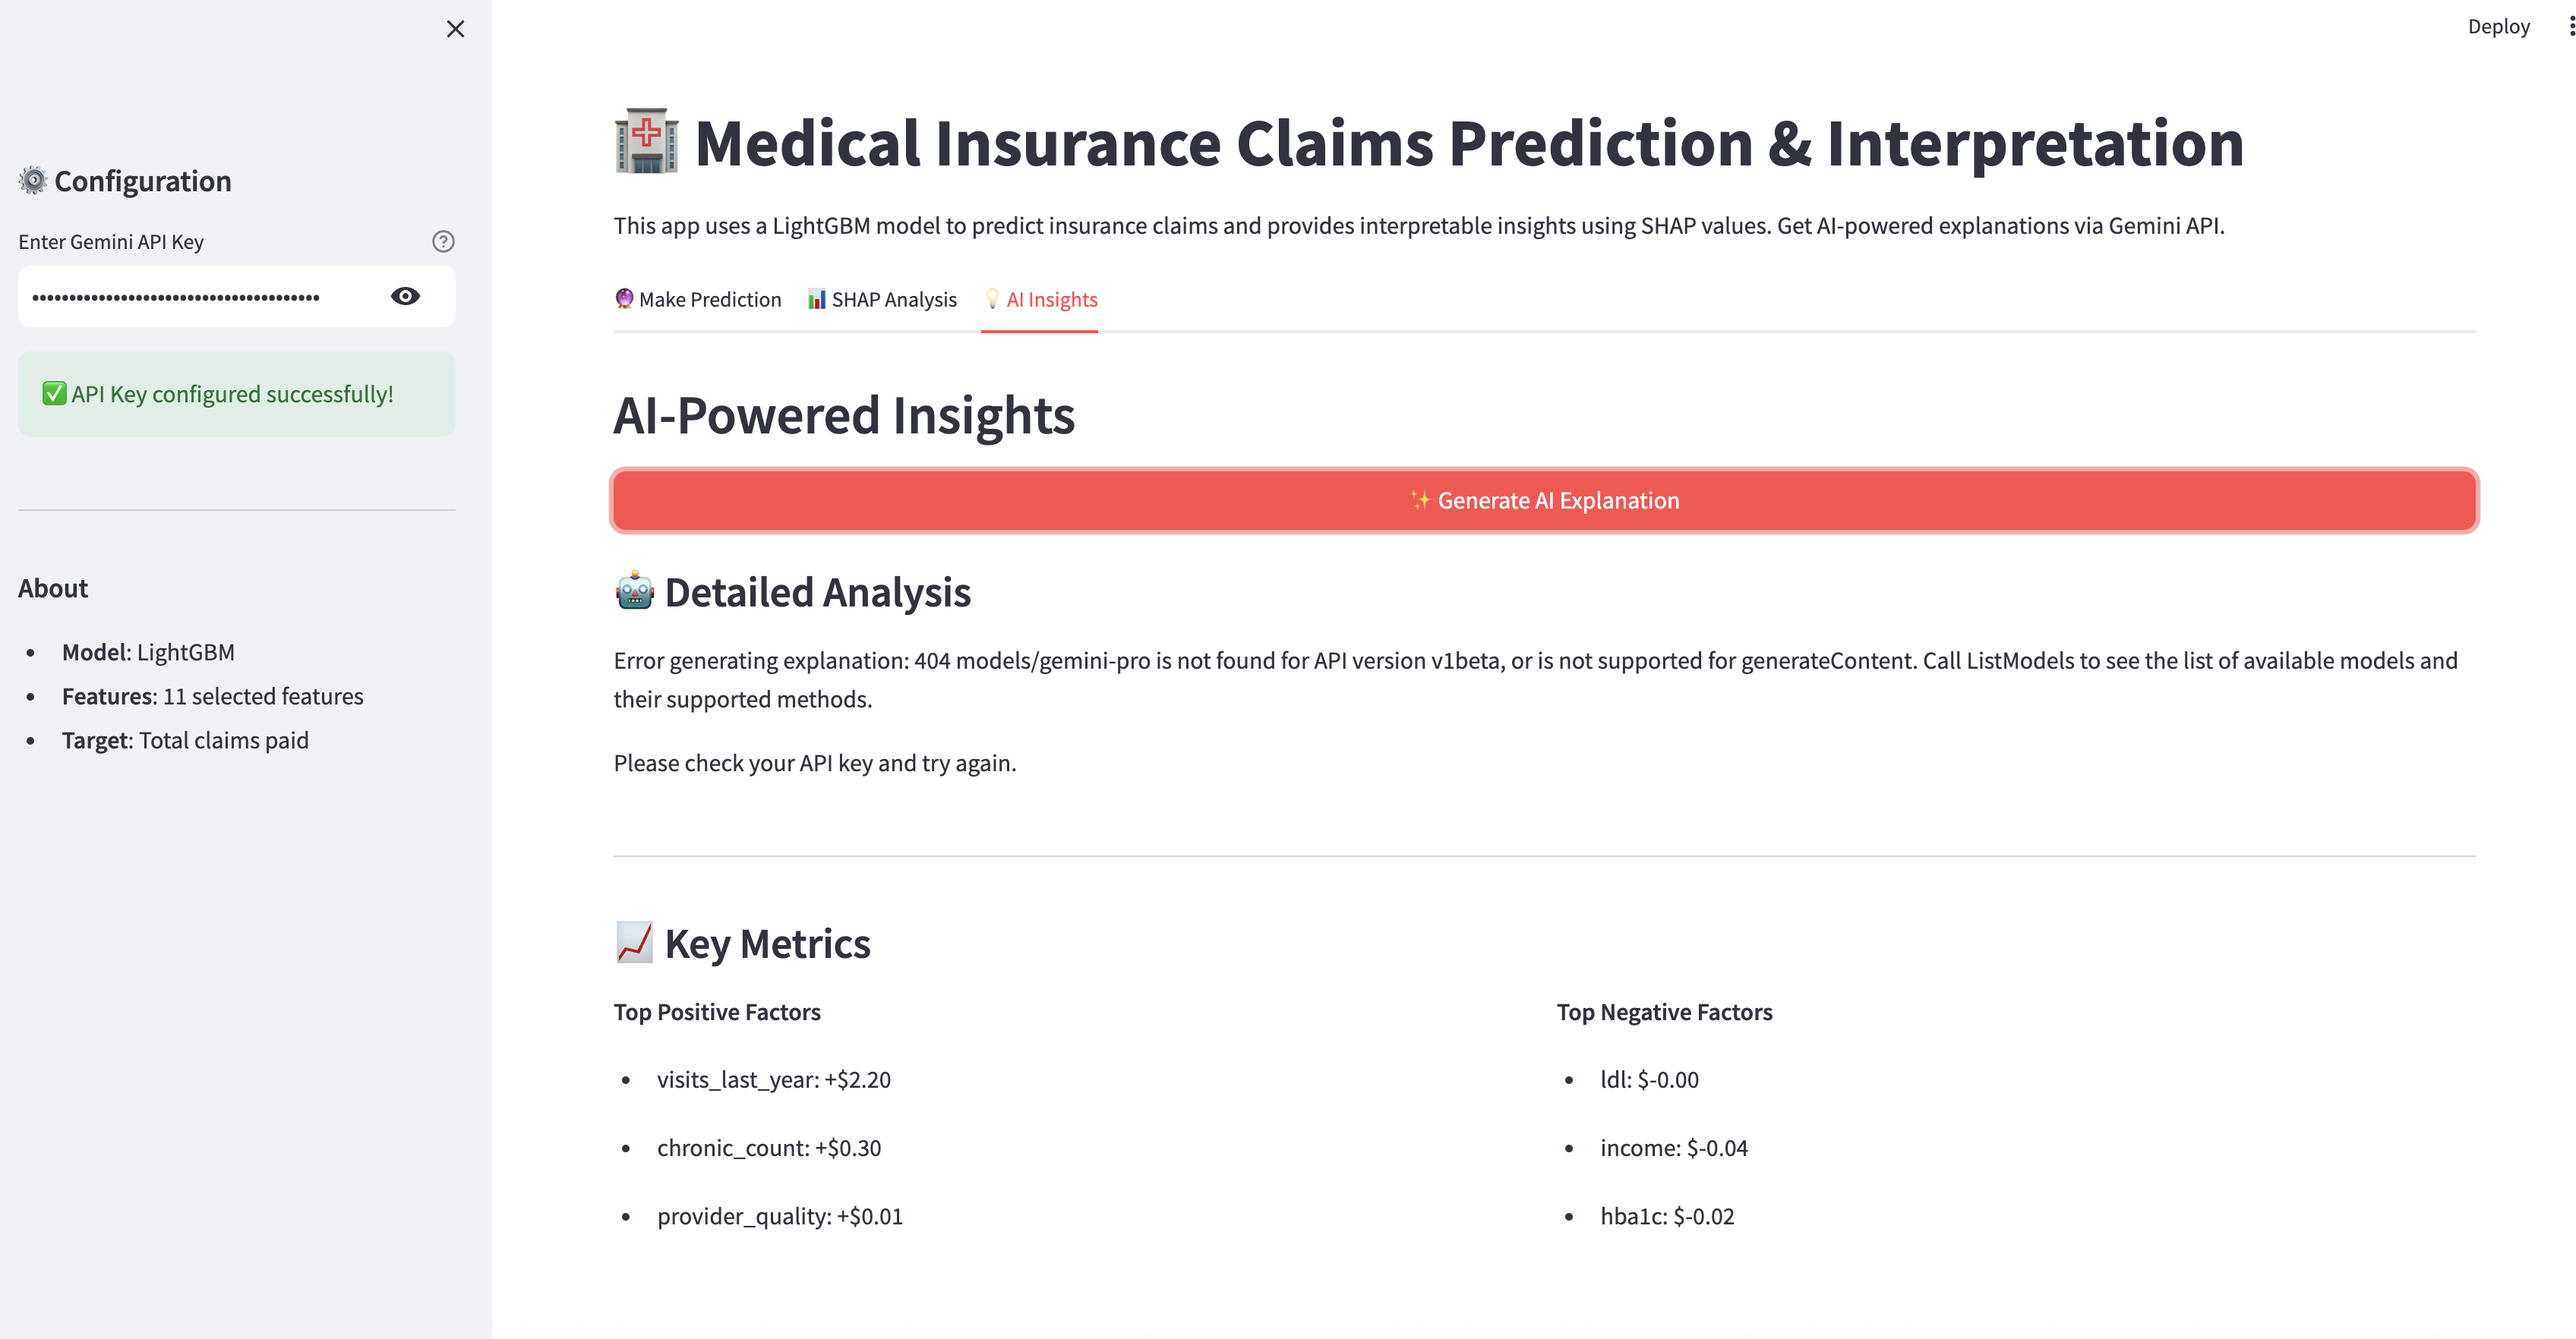
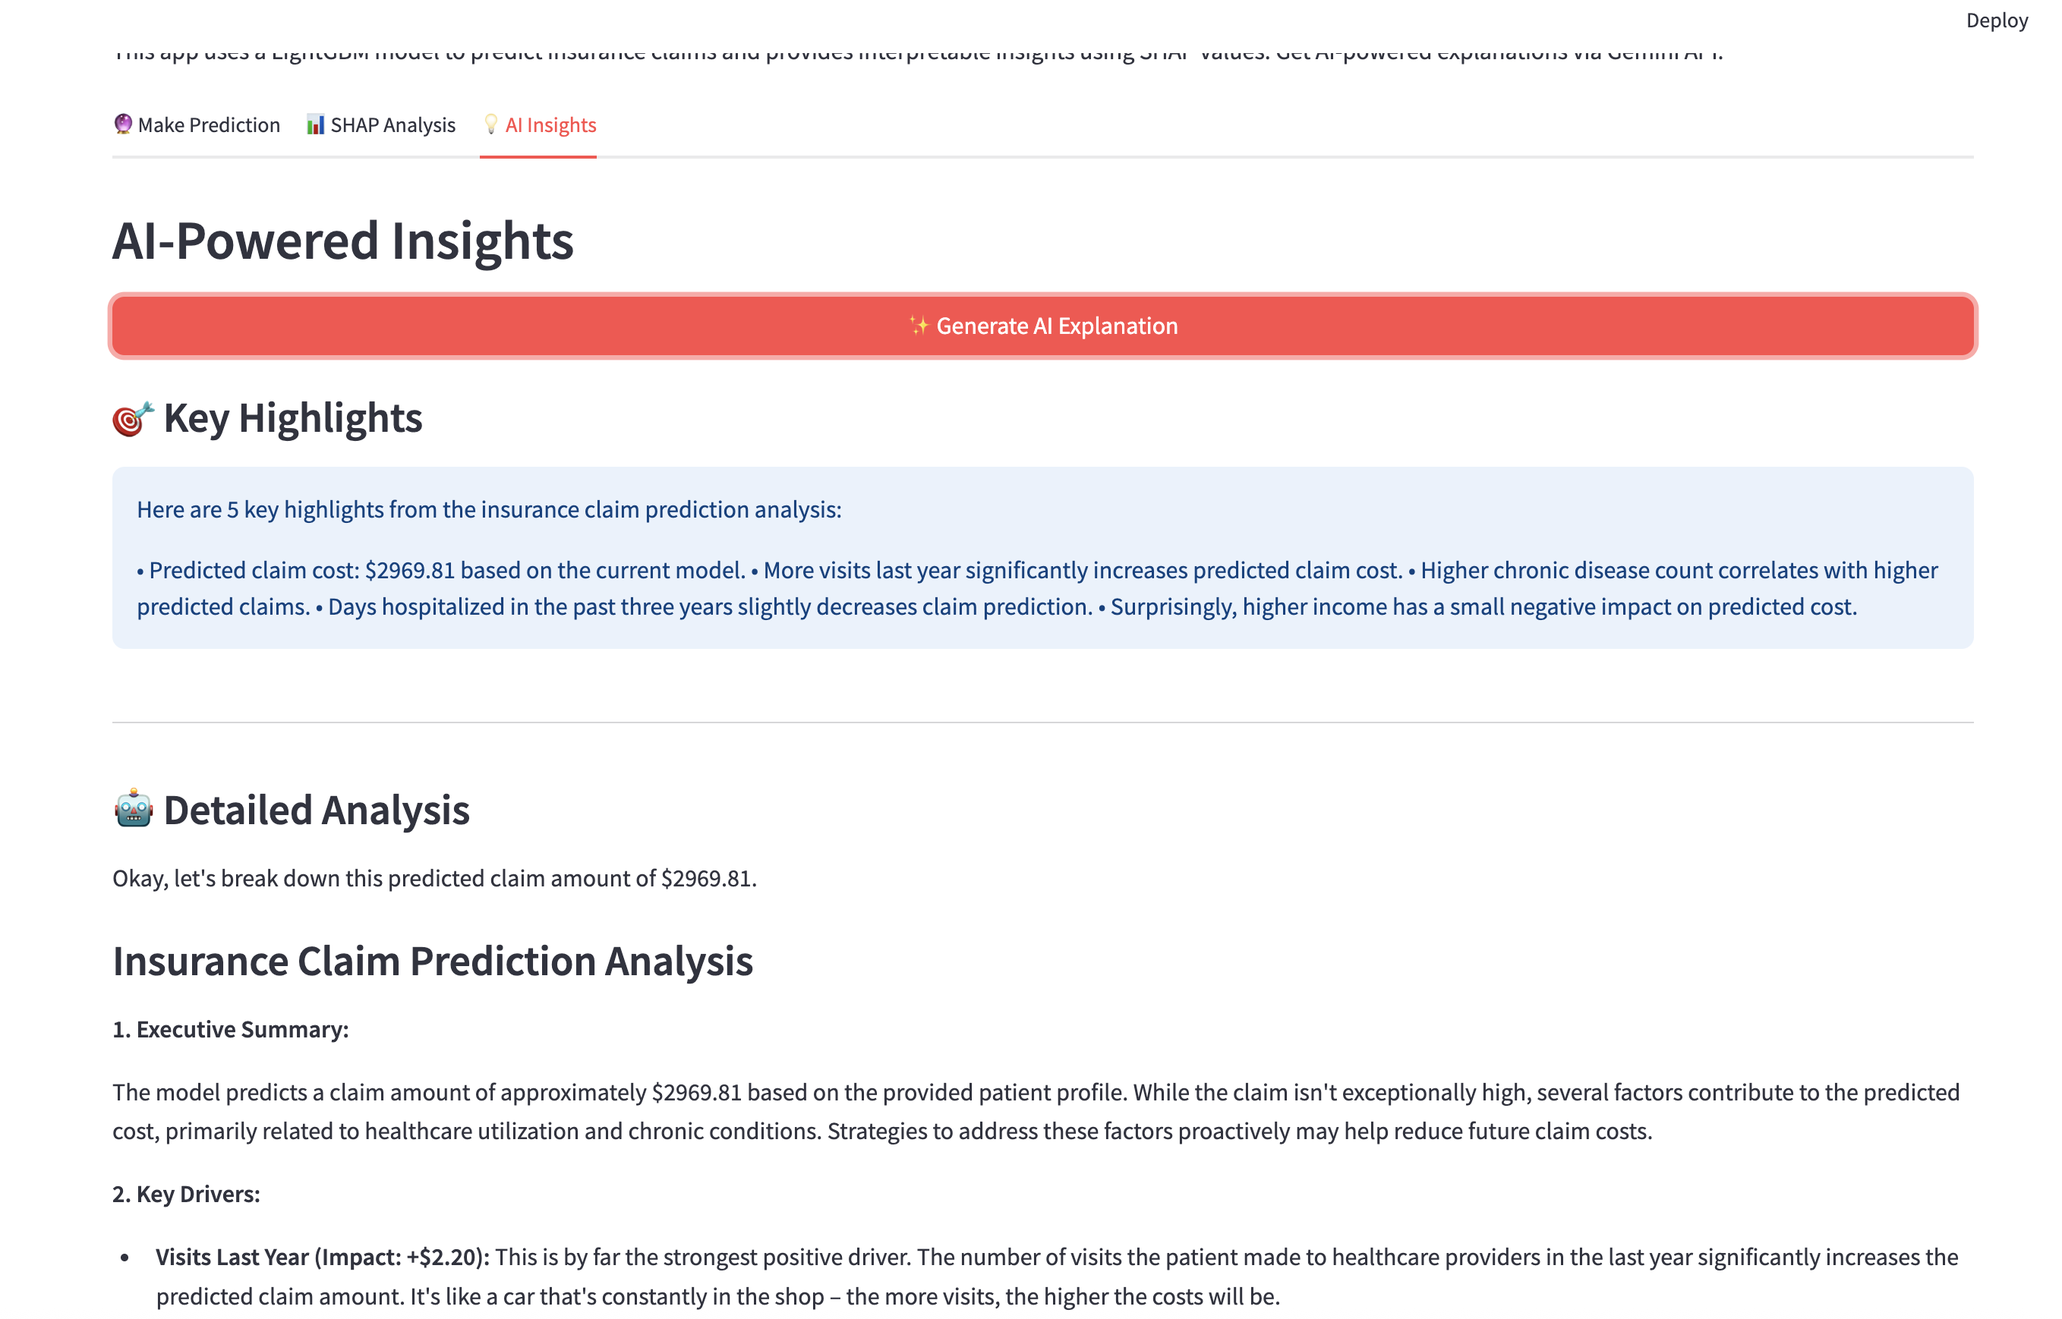
Switch to Google GenAI SDK: migrate to from google import genai with Client, use gemini-2.0-flash-exp; update requirements to google-genai; refresh screenshots and notebook.

diff --git a/app.py b/app.py
@@ -4,7 +4,7 @@ import numpy as np
 import pickle
 import shap
 import matplotlib.pyplot as plt
-import google.generativeai as genai
+from google import genai
 from sklearn.preprocessing import LabelEncoder, StandardScaler
 import os
 
@@ -106,9 +106,8 @@ def get_gemini_explanation(feature_impacts, prediction, api_key, sample_data):
         return None, "Please configure your Gemini API key in the sidebar to get AI-powered explanations."
     
     try:
-        # Configure API with explicit v1 endpoint
-        genai.configure(api_key=api_key)
-        model = genai.GenerativeModel('gemini-1.5-flash-latest')
+        # Use new Google GenAI SDK
+        client = genai.Client(api_key=api_key)
         
         # Create prompt with feature impacts and sample data
         prompt = f"""
@@ -138,7 +137,10 @@ Please provide a comprehensive analysis with:
 Keep the tone professional but accessible. Use analogies where helpful. Format using markdown with clear headers and bullet points.
 """
         
-        response = model.generate_content(prompt)
+        response = client.models.generate_content(
+            model="gemini-2.0-flash-exp", 
+            contents=prompt
+        )
         
         # Generate highlights separately
         highlights_prompt = f"""
@@ -154,7 +156,10 @@ Format each highlight as:
 Focus on actionable insights, risk factors, and surprising findings.
 """
         
-        highlights_response = model.generate_content(highlights_prompt)
+        highlights_response = client.models.generate_content(
+            model="gemini-2.0-flash-exp",
+            contents=highlights_prompt
+        )
         
         return highlights_response.text, response.text
     except Exception as e:
